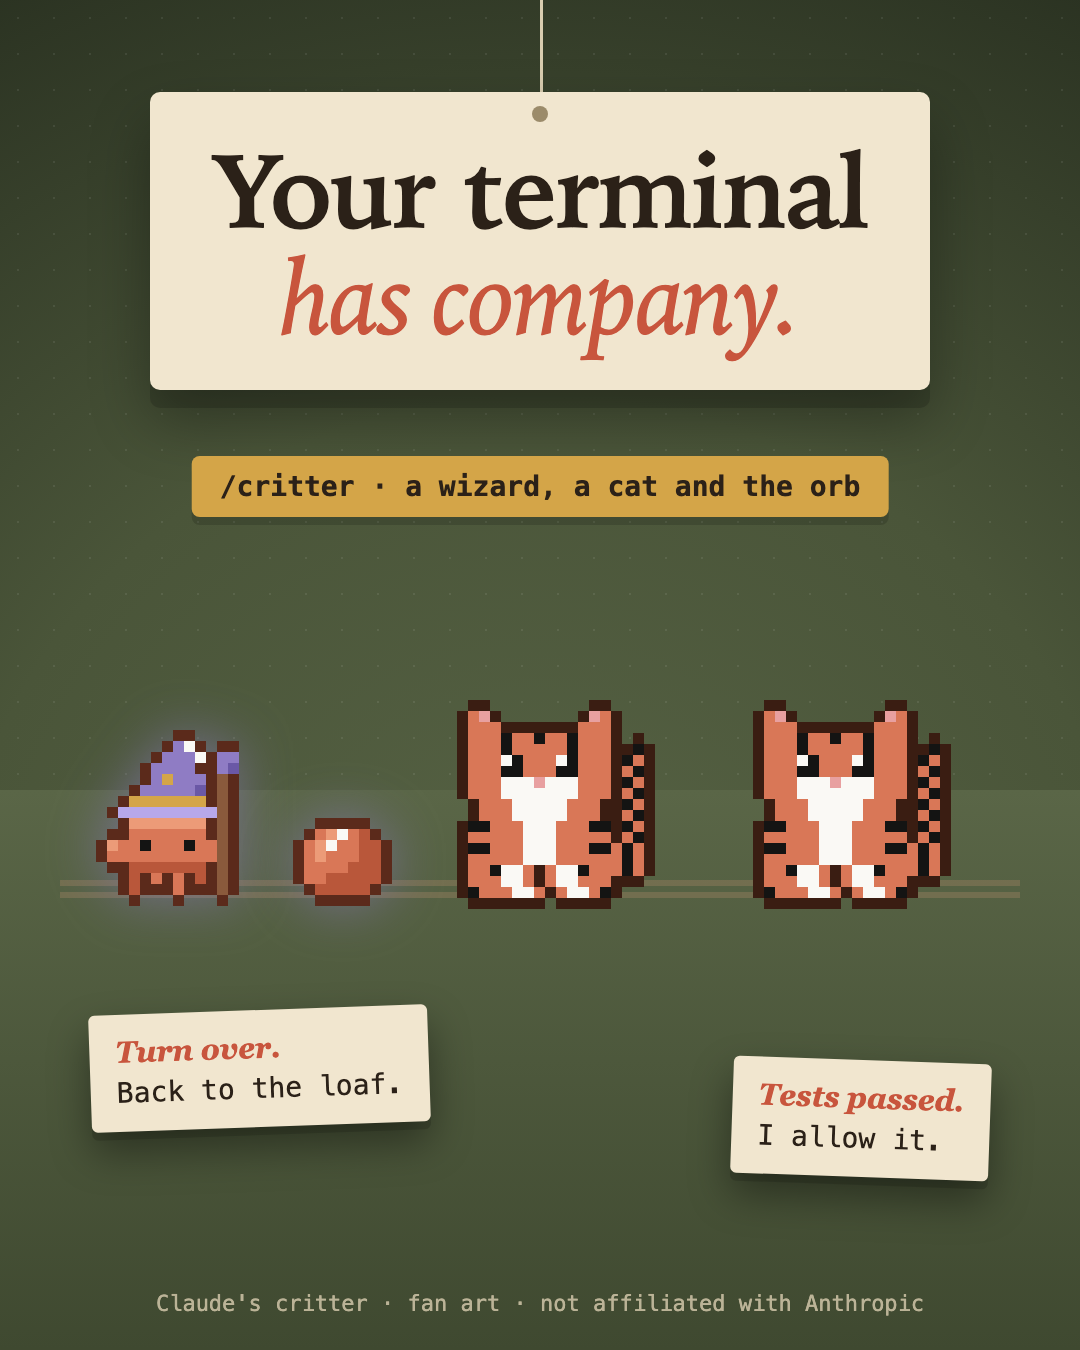
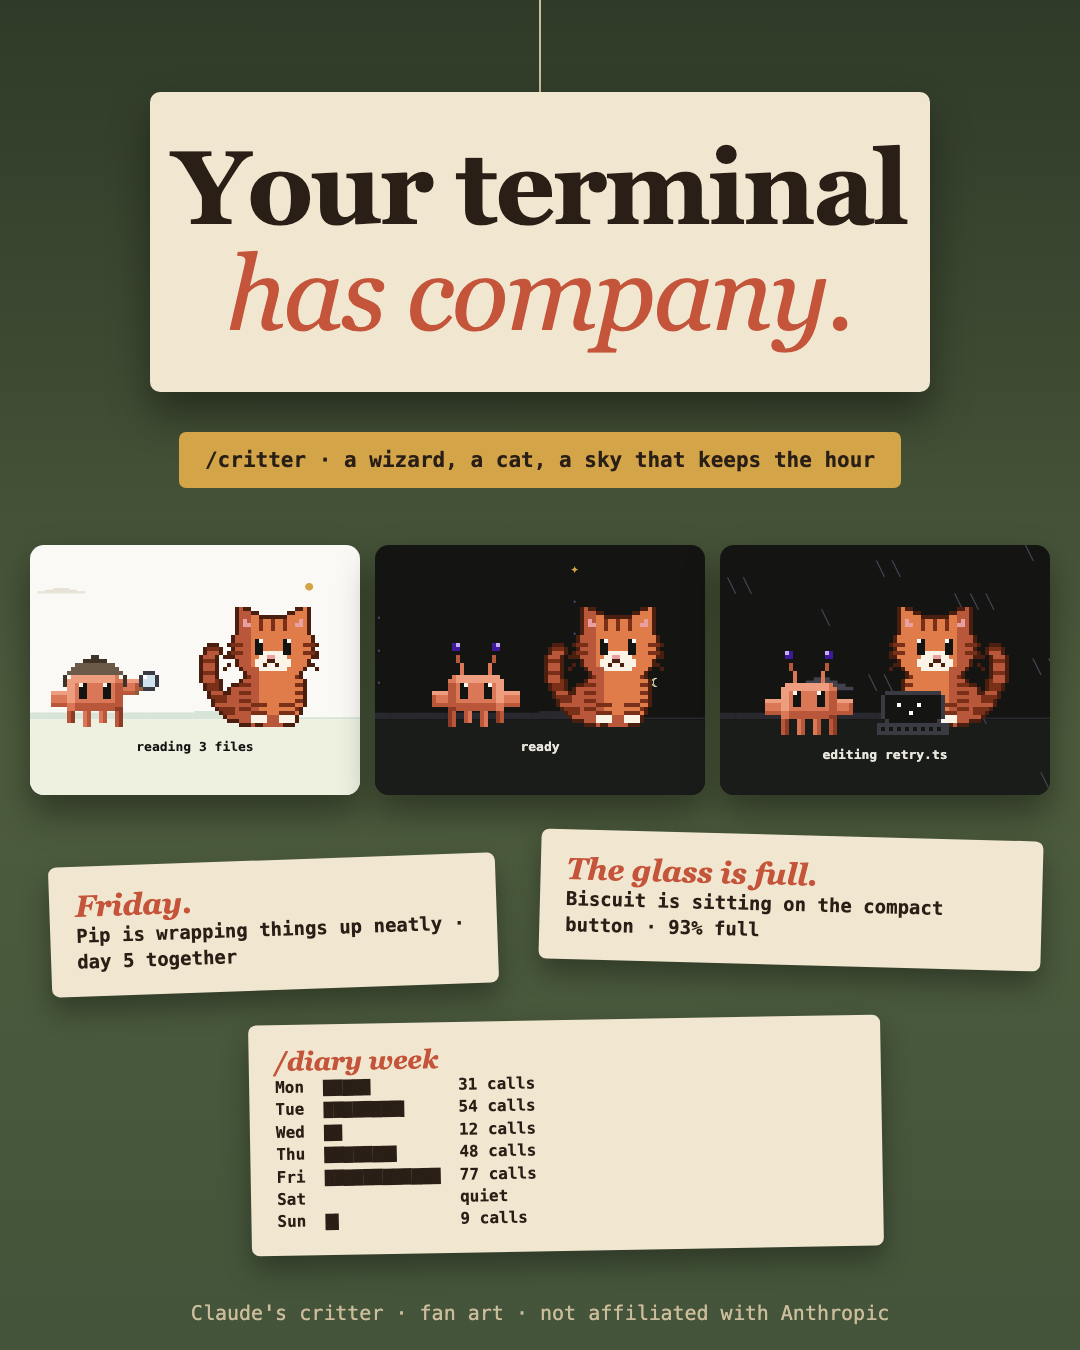
critter-buddy 0.13.1: the demo GIF and the preview poster drawn again from the mod's own code

diff --git a/plugins/critter-buddy/CHANGELOG.md b/plugins/critter-buddy/CHANGELOG.md
@@ -1,5 +1,9 @@
 # Changelog
 
+## 0.13.1
+
+- The demo GIF and the preview poster are drawn again from the mod's own scene and sky code: a working day (reading, cooking, casting, done), then dusk, night and rain, with the ridge and the wisps. The poster shows the Friday greeting, the full glass and the week's bars.
+
 ## 0.13.0
 
 - The clear-day backdrop has depth: a far ridge along the horizon (the ground tinted toward teal by day, toward violet at night) and three wisps of high thin cloud, instead of one dot and a flat block. A night and a storm keep their own skies.
